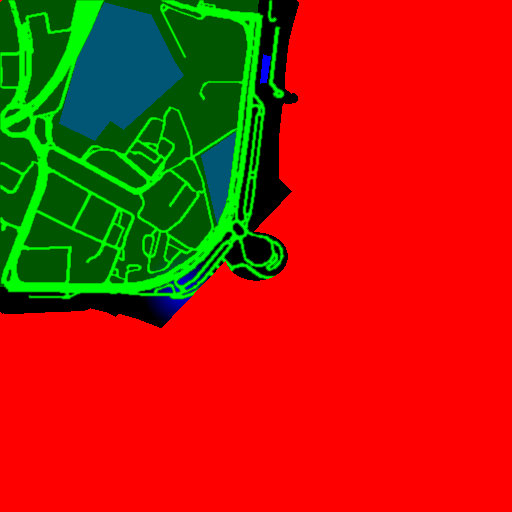
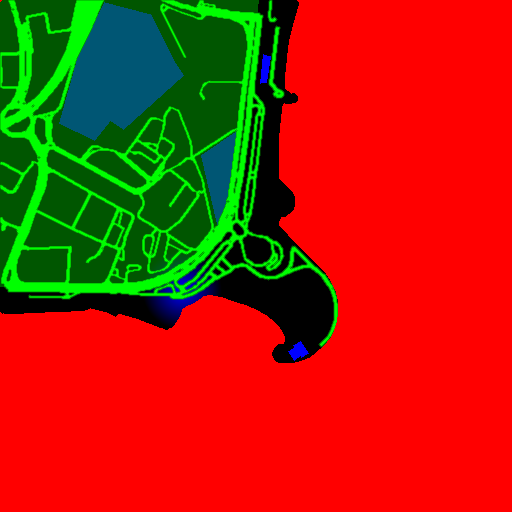
Kuwait Towers on their peninsula, not an island
Overture files named landforms in its water layer: Ras Ajouza, the cape
the towers stand on, is a thirteen-hectare physical/cape polygon there.
The bake burned it as sea, so the only land left at the centre was the
towers' own levelled pad, an island off the city. The water layer now
keeps out landform classes (cape, peninsula, isthmus, island, headland
and their kin) and swimming pools, which the dredge had sunk into
four-metre pits at the waterline. Re-baked Kuwait: the cape runs out of
the city with the Gulf on three sides; water audit clean.

Claude-Session: https://claude.ai/code/session_01Vm4UdrLmhsEiZM8Dk4Wi6F

Changed region(s): [[0.3438, 0.375, 0.6875, 0.7188], [0.3125, 0.625, 0.3438, 0.6562]]

diff --git a/tools/bake_overture.py b/tools/bake_overture.py
@@ -1011,10 +1011,30 @@ def blur(a, passes=2):
     return a
 
 
+# Named landforms that Overture files under water. Its `physical` subtype is
+# the coast's vocabulary, and some of that vocabulary is land: Ras Ajouza,
+# the cape the Kuwait Towers stand on, is a thirteen-hectare `physical/cape`
+# polygon in the water layer, and burning it as sea cut the towers off from
+# the city on an island of their own pad.
+LANDFORMS = {"cape", "peninsula", "isthmus", "island", "islet", "archipelago",
+             "headland", "point", "promontory", "spit"}
+
+
+# And water that is not the sea's: a swimming pool on a rooftop or a terrace
+# is surveyed water, and the dredge sinks everything wet to the waterline, so
+# the Kuwait Towers' pools became four-metre pits with the Gulf in the bottom.
+NOT_SEA = {"swimming_pool", "fountain"}
+
+
+def is_water(row):
+    c = row.get("class") or ""
+    return c not in LANDFORMS and c not in NOT_SEA
+
+
 def water_polys(sink, lat0, lon0, span):
     to_local, m_lat, m_lon = projector(lat0, lon0)
     return collect_polys(sink, "base", "water", lat0, lon0, span * 1.6,
-                         to_local, m_lat, m_lon)
+                         to_local, m_lat, m_lon, keep=is_water)
 
 
 # How far past the map the world is still drawn. The surround apron and the
@@ -1045,7 +1065,7 @@ def bake_far_water(sink, level_id, lat0, lon0, span):
     to_local, m_lat, m_lon = projector(lat0, lon0)
     reach = span * FAR
     polys = collect_polys(sink, "base", "water", lat0, lon0, reach,
-                          to_local, m_lat, m_lon)
+                          to_local, m_lat, m_lon, keep=is_water)
     w = np.clip(rasterise(polys, FAR_SIZE, reach), 0, 1)
     w = close(w, 1)
     img = Image.fromarray((w * 255).astype(np.uint8), mode="L")
